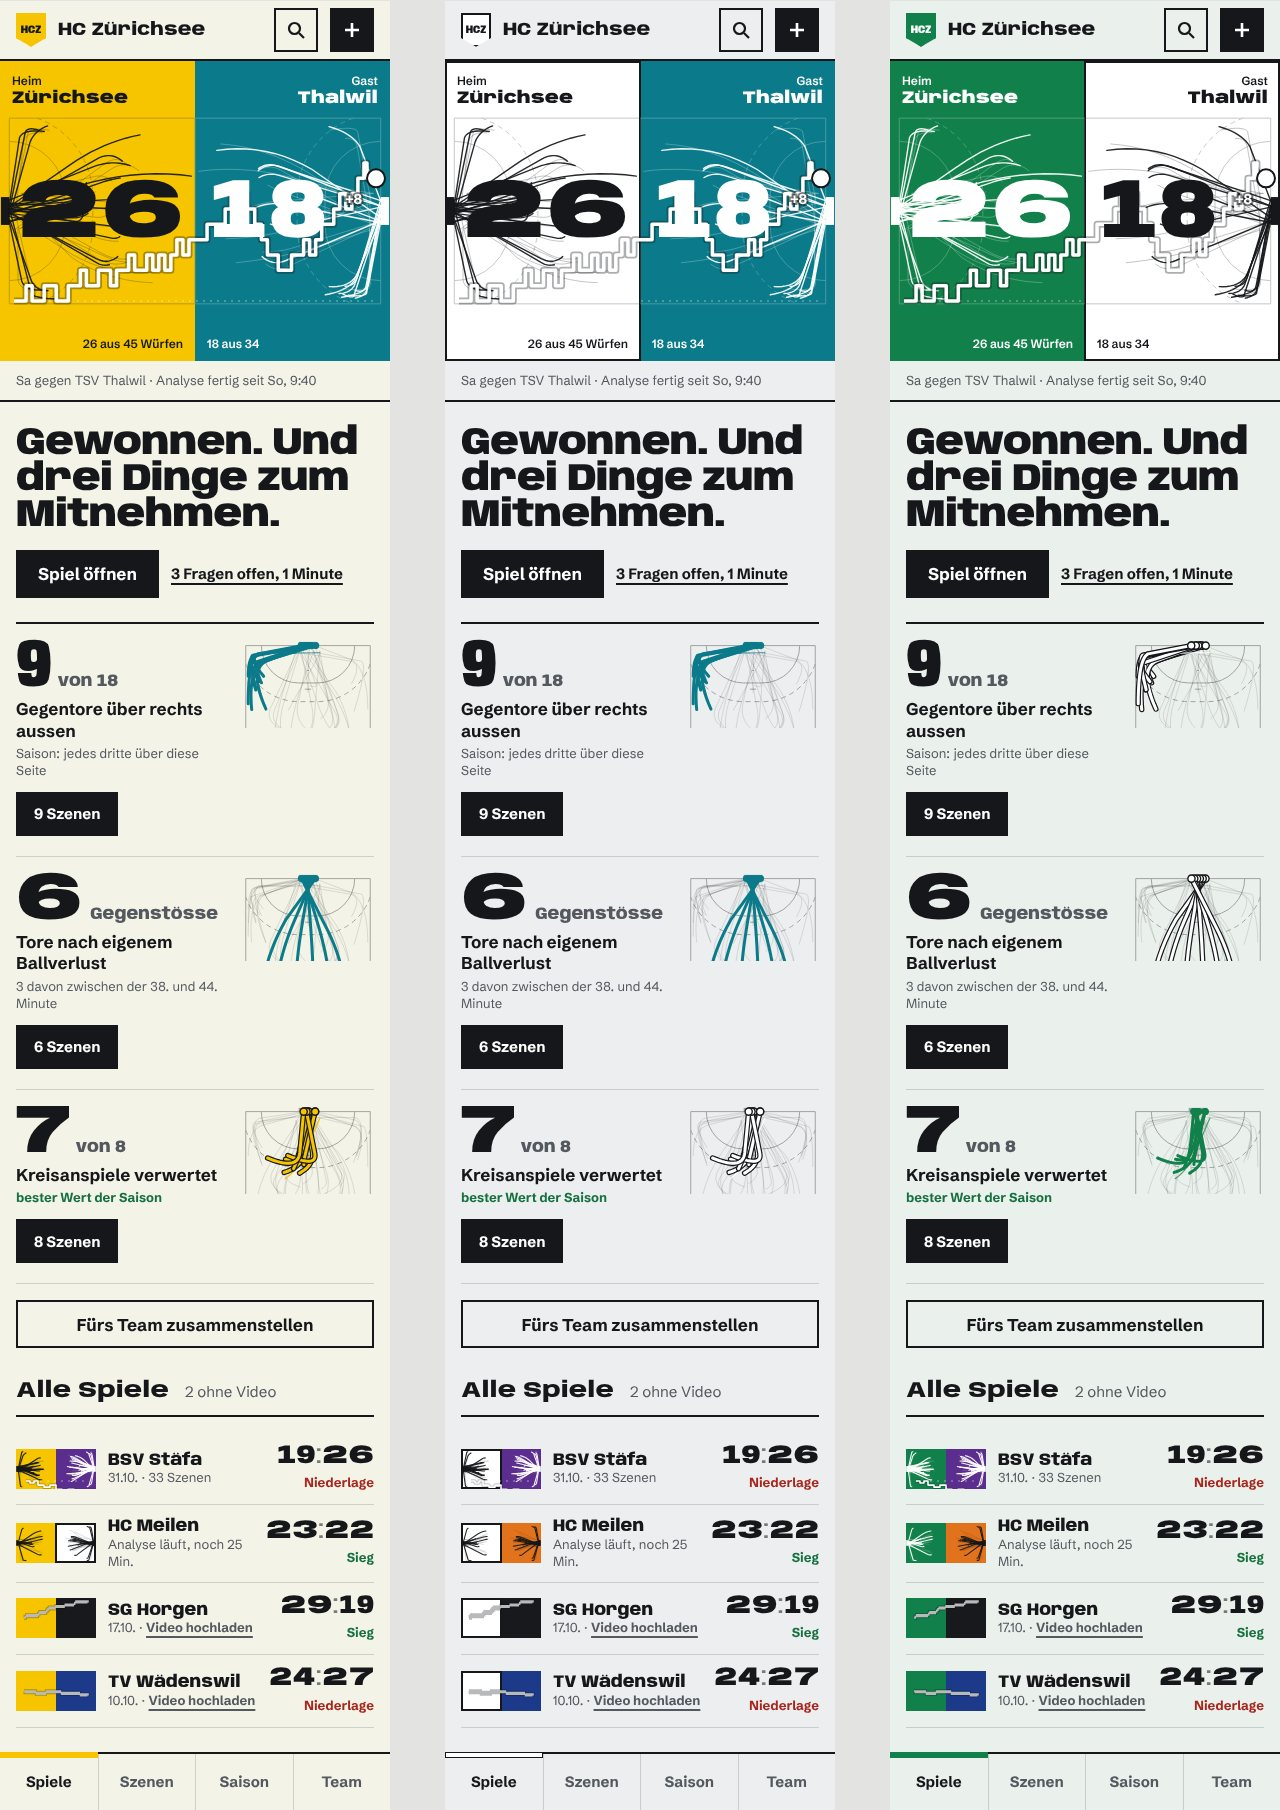
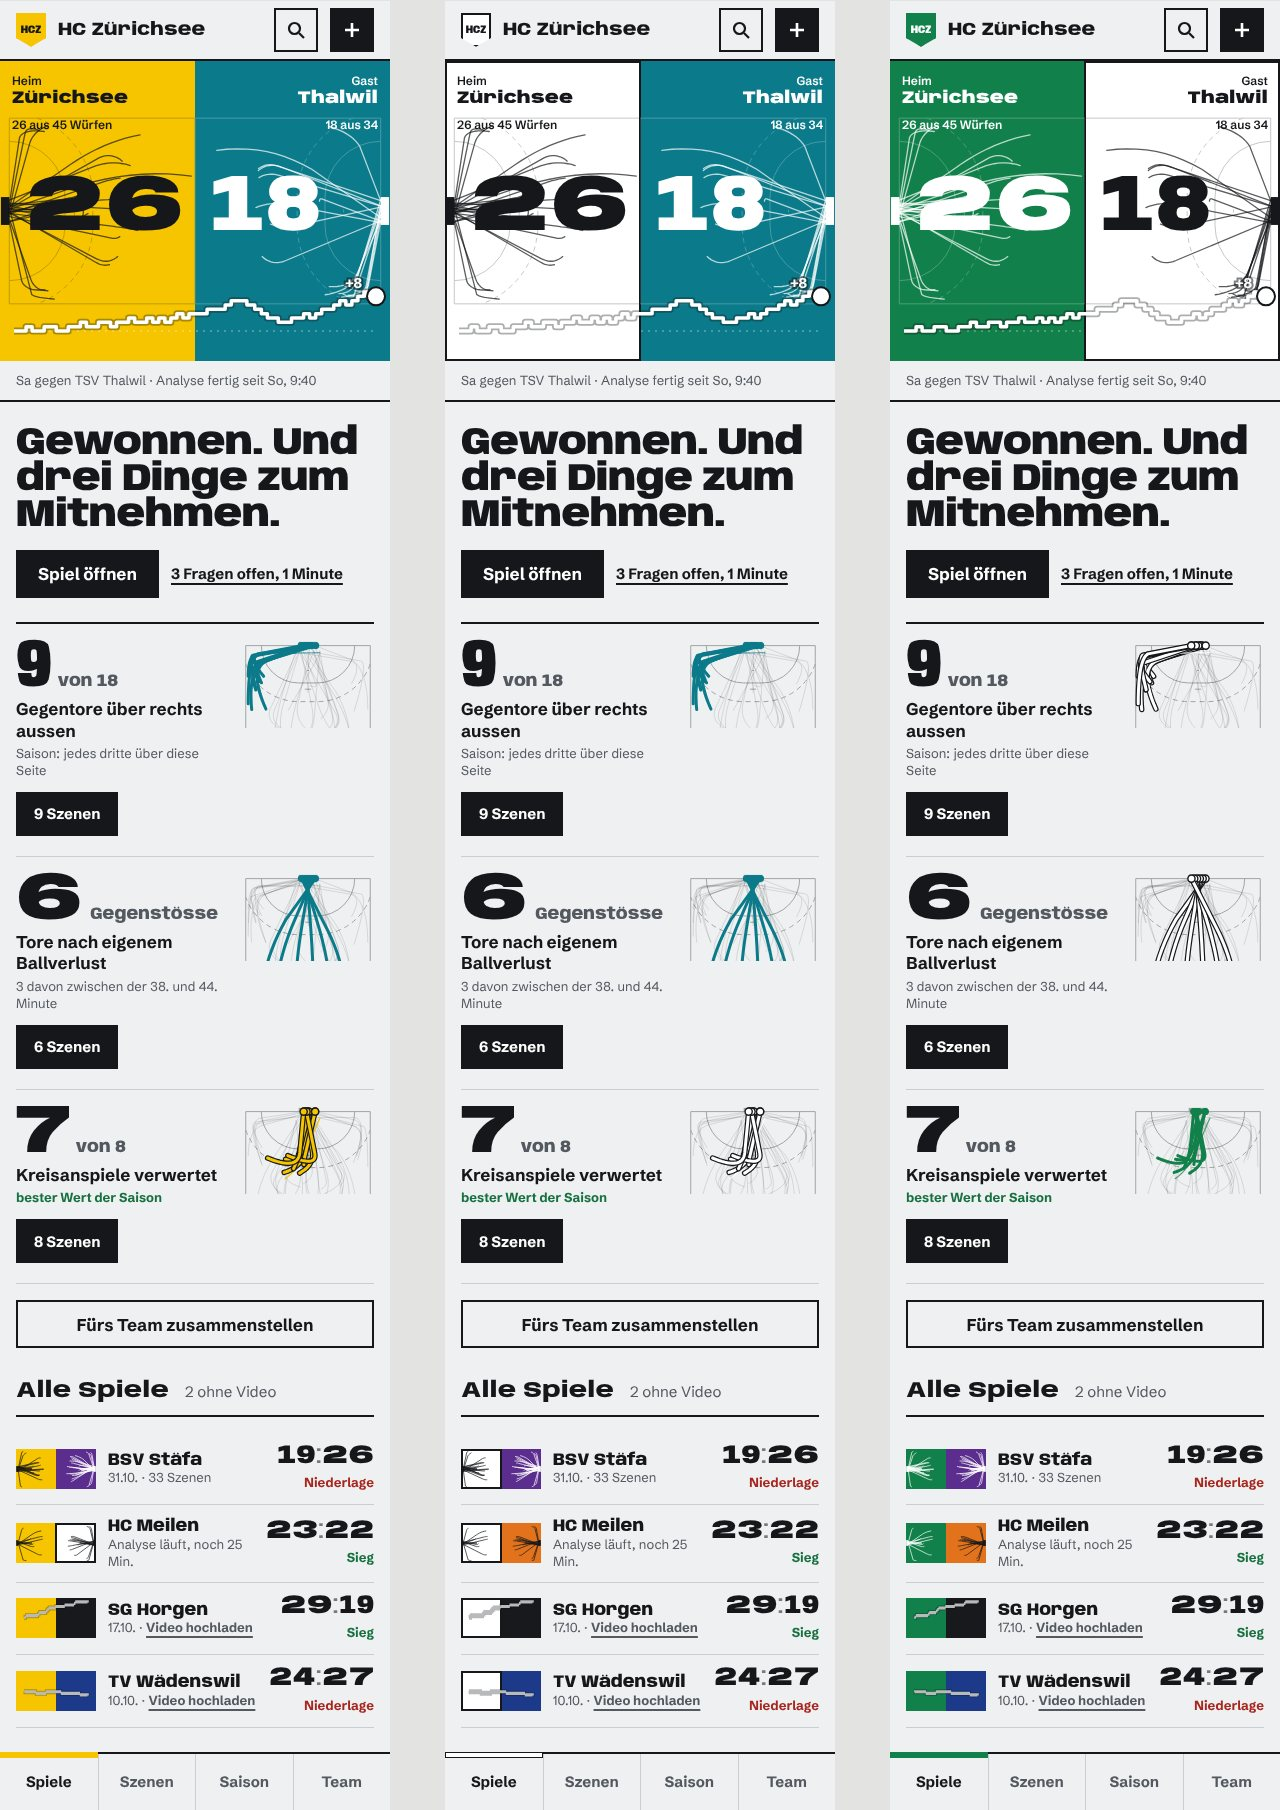
Abdruck: fester kühler Grund, Handy-Kopf und Listenzeichen nur mit Toren, Verlauf unter dem Resultat
Claude-Session: https://claude.ai/code/session_01H3gogARaTuGEWAQFd1Wjty

diff --git a/docs/design/ux-reset/runde3/abdruck/index.html b/docs/design/ux-reset/runde3/abdruck/index.html
@@ -148,9 +148,9 @@ table.st tr.me td:first-child::before { content: ""; display: inline-block; widt
 .tabbar a[aria-current]::before { content: ""; position: absolute; left: 0; right: 0; top: -2px; height: 6px; background: var(--club); box-shadow: 0 0 0 1px var(--club-edge) inset; }
 .phone .face .tm { top: 12px; font-size: 12px; } .phone .face .tm b { font-size: 17px; }
 .phone .face .tm.us { left: 12px; } .phone .face .tm.them { right: 12px; }
-.phone .face .big { font-size: 84px; }
+.phone .face .big { font-size: 80px; top: 48%; }
 .phone .face .big.us { right: calc(50% + 12px); } .phone .face .big.them { left: calc(50% + 12px); }
-.phone .face .sub { bottom: 10px; font-size: 12px; } .phone .face .sub.us { right: calc(50% + 12px); } .phone .face .sub.them { left: calc(50% + 12px); }
+.phone .face .sub { top: 56px; bottom: auto; font-size: 12px; } .phone .face .sub.us { left: 12px; right: auto; } .phone .face .sub.them { right: 12px; left: auto; }
 .pmeta { padding: 10px 16px; font-size: 13px; color: var(--ink-2); border-bottom: 2px solid var(--ink); }
 .ptitle { padding: 24px 16px 0; }
 .ptitle .kick { font-size: 13px; color: var(--ink-2); margin-bottom: 8px; }
@@ -295,7 +295,7 @@ table.tb .ok svg { width: 18px; height: 18px; vertical-align: -3px; }
   <p class="qline"><span class="tag">Prüfen</span><a class="lnk" href="#" style="min-height:0">3 Fragen offen, 1 Minute</a></p>
   <div class="cols">
     <section><div class="h"><b>Alle Spiele</b><span>2 von 5 ohne Video</span></div>
-      <div class="game"><div class="when">Sa<b>31.10.</b>auswärts</div><svg class="gl" data-match="staefa" data-opp="staefa" data-w="128" data-h="64" data-flow aria-hidden="true"></svg><div><h4>BSV Stäfa</h4><p>33 Szenen · 2 Dinge · Ballverluste im Aufbau</p></div><div class="res l"><span class="score" data-score="19:26"></span><small>Niederlage</small></div></div>
+      <div class="game"><div class="when">Sa<b>31.10.</b>auswärts</div><svg class="gl" data-match="staefa" data-opp="staefa" data-w="128" data-h="64" aria-hidden="true"></svg><div><h4>BSV Stäfa</h4><p>33 Szenen · 2 Dinge · Ballverluste im Aufbau</p></div><div class="res l"><span class="score" data-score="19:26"></span><small>Niederlage</small></div></div>
       <div class="game"><div class="when">Sa<b>24.10.</b>Heim</div><svg class="gl" data-match="meilen" data-opp="meilen" data-w="128" data-h="64" data-p=".62" aria-hidden="true"></svg><div><h4>HC Meilen</h4><p>Analyse läuft, noch etwa 25 Minuten</p><div class="bar" role="progressbar" aria-label="Analyse 62 Prozent" aria-valuenow="62" aria-valuemin="0" aria-valuemax="100"><i style="width:62%"></i></div></div><div class="res w"><span class="score" data-score="23:22"></span><small>Sieg</small></div></div>
       <div class="game"><div class="when">Sa<b>17.10.</b>auswärts</div><svg class="gl" data-match="horgen" data-opp="horgen" data-seq="2:1 5:4 9:6 14:8 18:11 22:14 26:16 29:19" data-w="128" data-h="64" role="img" aria-label="Nur Spielbericht: Torfolge"></svg><div><h4>SG Horgen</h4><p>Nur Spielbericht · <a class="lnk" href="#">Video hochladen</a></p></div><div class="res w"><span class="score" data-score="29:19"></span><small>Sieg</small></div></div>
       <div class="game"><div class="when">Sa<b>10.10.</b>Heim</div><svg class="gl" data-match="waedenswil" data-opp="waedenswil" data-seq="1:2 4:5 7:9 11:12 14:15 17:19 21:23 24:27" data-w="128" data-h="64" role="img" aria-label="Nur Spielbericht: Torfolge"></svg><div><h4>TV Wädenswil</h4><p>Nur Spielbericht · <a class="lnk" href="#">Video hochladen</a></p></div><div class="res l"><span class="score" data-score="24:27"></span><small>Niederlage</small></div></div>
@@ -471,7 +471,7 @@ table.tb .ok svg { width: 18px; height: 18px; vertical-align: -3px; }
   </ol>
   <div style="padding:16px 16px 0"><a class="btn line" href="#" style="width:100%">Fürs Team zusammenstellen</a></div>
   <section style="padding:32px 16px 24px"><div class="h"><b style="font-size:22px">Alle Spiele</b><span>2 ohne Video</span></div>
-    <div class="pgame"><svg class="gl" data-match="staefa" data-opp="staefa" data-w="80" data-h="40" data-flow aria-hidden="true"></svg><div><h4>BSV Stäfa</h4><p>31.10. · 33 Szenen</p></div><div class="res l"><span class="score" data-score="19:26"></span><small>Niederlage</small></div></div>
+    <div class="pgame"><svg class="gl" data-match="staefa" data-opp="staefa" data-w="80" data-h="40" aria-hidden="true"></svg><div><h4>BSV Stäfa</h4><p>31.10. · 33 Szenen</p></div><div class="res l"><span class="score" data-score="19:26"></span><small>Niederlage</small></div></div>
     <div class="pgame"><svg class="gl" data-match="meilen" data-opp="meilen" data-w="80" data-h="40" data-p=".62" aria-hidden="true"></svg><div><h4>HC Meilen</h4><p>Analyse läuft, noch 25 Min.</p></div><div class="res w"><span class="score" data-score="23:22"></span><small>Sieg</small></div></div>
     <div class="pgame"><svg class="gl" data-match="horgen" data-opp="horgen" data-seq="2:1 5:4 9:6 14:8 18:11 22:14 26:16 29:19" data-w="80" data-h="40" aria-hidden="true"></svg><div><h4>SG Horgen</h4><p>17.10. · <a class="lnk" style="min-height:0;font-size:13px" href="#">Video hochladen</a></p></div><div class="res w"><span class="score" data-score="29:19"></span><small>Sieg</small></div></div>
     <div class="pgame"><svg class="gl" data-match="waedenswil" data-opp="waedenswil" data-seq="1:2 4:5 7:9 11:12 14:15 17:19 21:23 24:27" data-w="80" data-h="40" aria-hidden="true"></svg><div><h4>TV Wädenswil</h4><p>10.10. · <a class="lnk" style="min-height:0;font-size:13px" href="#">Video hochladen</a></p></div><div class="res l"><span class="score" data-score="24:27"></span><small>Niederlage</small></div></div>
@@ -587,7 +587,7 @@ function near(a, b) { var ha = hue(a), hb = hue(b); if (ha < 0 || hb < 0) return
 function kit(club, opp) {
   var c = KITS[club], o = opp && KITS[opp], k = {};
   /* the ground carries a breath of the club: 6 % of its colour on cool white; light kits get a cool grey */
-  k.ground = lum(c[0]) > 0.6 ? "#eceef0" : mix("#f4f5f3", c[0], 0.045);
+  k.ground = "#eef0f2"; /* one cool ground for every club: the colour belongs to the head, the lines and the numerals */
   k.rule = mix(k.ground, INK, 0.16);
   k.club = c[0]; k.clubInk = contrast(c[0], "#ffffff") >= 3.2 ? "#ffffff" : INK;
   /* a line in a light kit colour is piped with its trim, so it stays the kit's colour and still reads */
@@ -688,10 +688,11 @@ function face(svg) {
   h += '<rect x="-0.9" y="8.5" width="0.9" height="3" fill="var(--club-ink)"/><rect x="40" y="8.5" width="0.9" height="3" fill="var(--opp-ink)"/>';
   list.forEach(function (sh, i) {
     if (i >= n || svg.hasAttribute("data-noshots")) return;
+    if (W < 500 && !sh.goal) return;
     var col = sh.us ? "var(--club-ink)" : "var(--opp-ink)", pts = shotPath(sh).slice(small ? 12 : 8);
     pts = pts.map(function (p) { return [sh.us ? Math.min(p[0], 19.6) : Math.max(p[0], 20.4), p[1]]; });
     var dd = d(pts);
-    h += '<path class="ln" style="--i:' + i + '" pathLength="1" d="' + dd + '" fill="none" stroke="' + col + '" stroke-width="' + (sh.goal ? (small ? 1.1 : W < 500 ? 1.4 : 2.2) : (small ? 0.5 : 1)) + '" stroke-opacity="' + (sh.goal ? 0.92 : W < 500 ? 0.25 : 0.38) + '" stroke-linecap="round"' + NS + "/>";
+    h += '<path class="ln" style="--i:' + i + '" pathLength="1" d="' + dd + '" fill="none" stroke="' + col + '" stroke-width="' + (sh.goal ? (small ? 1 : W < 500 ? 1.3 : 2.2) : 1) + '" stroke-opacity="' + (sh.goal ? (W < 500 ? 0.7 : 0.92) : 0.38) + '" stroke-linecap="round"' + NS + "/>";
   });
   h += "</g>";
   if (svg.hasAttribute("data-flow")) h += flowLine(FLOW[key], W, H, svg.hasAttribute("data-phase"), small, W < 500);
@@ -699,7 +700,7 @@ function face(svg) {
 }
 /* the run of the match: one line, left to right is minute 0 to 60, up is our lead */
 function flowLine(data, W, H, phase, small, compact) {
-  var pad = small ? 10 : compact ? 14 : 32, U = (H * 0.46) / 9, mid = H * 0.8;
+  var pad = small ? 10 : compact ? 14 : 32, U = compact ? (H * 0.13) / 9 : (H * 0.46) / 9, mid = compact ? H * 0.9 : H * 0.8;
   function x(m) { return pad + (W - 2 * pad) * m / 60; } function y(v) { return mid - v * U; }
   var pts = []; data.forEach(function (p, i) { if (i) pts.push([x(p[0]), y(data[i - 1][1])]); pts.push([x(p[0]), y(p[1])]); });
   var dd = d(pts), o = "", last = data[data.length - 1];
@@ -715,7 +716,7 @@ function flowLine(data, W, H, phase, small, compact) {
   }
   var ex = x(60), ey = y(last[1]);
   o += '<circle cx="' + ex + '" cy="' + ey + '" r="' + (small ? 3 : 9) + '" fill="#fff" stroke="' + INK + '" stroke-width="' + (small ? 1 : 2) + '"/>';
-  if (!small && compact) o += '<text x="' + (ex - 14) + '" y="' + (ey + 26) + '" text-anchor="end" class="fl">+' + last[1] + "</text>";
+  if (!small && compact) o += '<text x="' + (ex - 14) + '" y="' + (ey - 8) + '" text-anchor="end" class="fl">' + (last[1] > 0 ? "+" : "") + last[1] + "</text>";
   if (!small && !compact) {
     o += '<text x="' + (ex - 16) + '" y="' + (ey - 16) + '" text-anchor="end" class="fl b">Schluss ' + (last[1] > 0 ? "+" : "") + last[1] + "</text>";
     o += '<text x="' + x(0) + '" y="' + (mid - 14) + '" class="fl">Verlauf</text>';

diff --git a/docs/design/ux-reset/runde3/abdruck/README.md b/docs/design/ux-reset/runde3/abdruck/README.md
@@ -51,11 +51,10 @@ Taktikkamera aus «Einblendung».
 
 ## Die sieben Punkte
 
-1. **Grund.** Kein Beige mehr. Der Grund ist ein kühles Weiss mit einem Hauch der Vereinsfarbe
-   (4,5 %): Bei Rot leicht rosig, bei Grün leicht mint, bei Gelb leicht cremig. Helle Trikots
-   (Weiss, Gelb über 60 % Helligkeit) bekommen ein kühles Hallengrau `#eceef0`, damit die weisse
-   Fläche steht. Die App gehört dem Verein, bevor eine Zahl gelesen ist. Schwarz-weiss wirkt sie
-   nicht, weil der Kopf jedes Spiels zwei volle Farbflächen trägt.
+1. **Grund.** Kein Beige, kein Hauch Vereinsfarbe (der ergab bei Rot wieder rosa Papier). Ein
+   fester, kühler Grund `#eef0f2`, für jeden Verein gleich. Die Farbe gehört ganz dem Kopf, den
+   Bahnen und den Ziffern; weisse Flächen bekommen dort eine Kante in Tinte. Schwarz-weiss wirkt
+   es nicht, weil der Kopf jedes Spiels zwei volle Farbflächen trägt.
 2. **Tempo ohne Kursiv.** Die Schrift steht aufrecht. Tempo zeigen die Wurfbahnen, die Treppe des
    Verlaufs, die von links unten durch das Resultat steigt, und die Breite der Ziffern. Anybody
    wurde gewählt, weil sie die Breite als Achse hat; damit ist die Breite eine Aussage, kein Stil.
@@ -83,7 +82,7 @@ Taktikkamera aus «Einblendung».
 
 - **Anybody** (SIL OFL, Breite 50 bis 150, Gewicht 500 bis 900): Resultat, Titel, Namen, Ziffern.
 - **Schibsted Grotesk** (SIL OFL): Text, Tabellen, Knöpfe.
-- Tinte `#15171a`, Text 2 `#545960`, Grund aus der Vereinsfarbe (siehe oben), Linien 16 % Tinte auf
+- Tinte `#15171a`, Text 2 `#545960`, Grund `#eef0f2` für alle Vereine, Linien 16 % Tinte auf
   dem Grund. Gelb `#ffd23c` nur für Prüfen und die markierte Phase. Sieg `#17703f`, Niederlage
   `#a8261e`, immer mit Wort. Unbekannter Gegner `#646b73`.
 - Trikots als Paar aus Farbe und Zweitfarbe, zum Beispiel Rot `#d3202e` mit Weiss, Gelb `#f6c500`
@@ -93,8 +92,10 @@ Taktikkamera aus «Einblendung».
 
 ## Offen
 
-- Das Gesicht am Handy ist dicht: 300 px Höhe für 79 Würfe, Resultat und Verlauf. Es funktioniert,
-  ist aber an der Grenze. Möglich: am Handy nur die Tore zeichnen.
+- Handy und Spielliste zeichnen nur die Tore, die Bahnen liegen hinter den Ziffern, und der
+  Verlauf läuft am Handy als ruhiges Band unter dem Resultat; in der Liste fehlt er ganz. Am
+  Desktop bleibt er durchs Resultat. Ob das Handy-Gesicht noch genug «Gesicht» ist, sollte man am
+  echten Gerät prüfen.
 - Die Zeile «Jede Linie ein Wurf» steht nur auf dem Start. Ob man sie nach dem ersten Mal weglässt,
   sollte ein Test mit zwei, drei Trainerinnen zeigen.
 - Die Kollisionsregel braucht die Zweitfarbe des Gegners. Ohne sie fällt er auf Tinte zurück.
